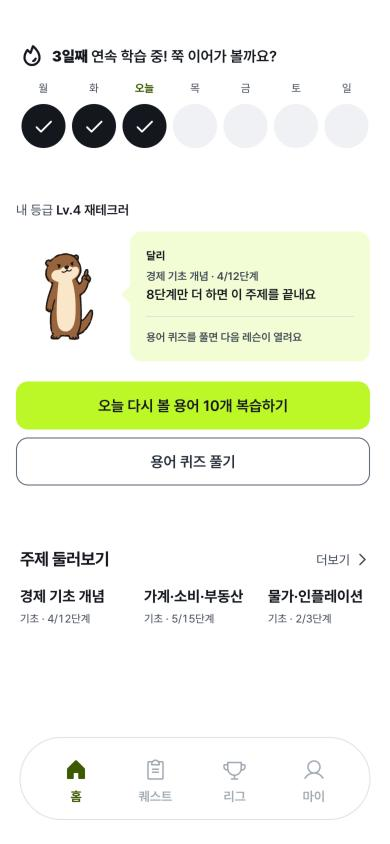
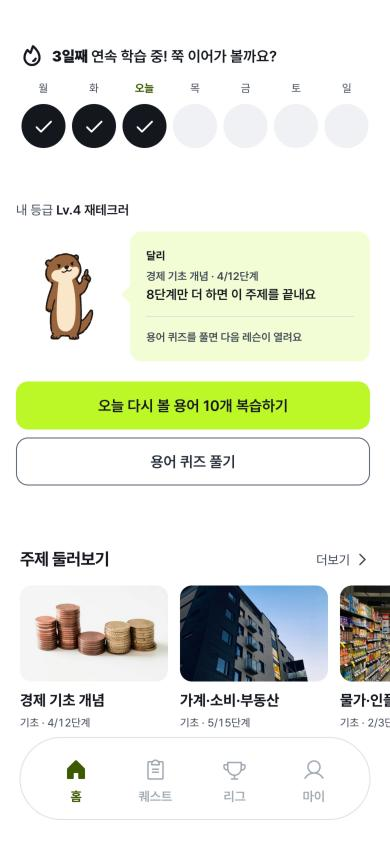
홈 주제 카드에 주제별 사진 17장(Unsplash 무료, 400x260) 추가, 출처 목록 public/topics/SOURCES.md

Changed region(s): [[0.0615, 0.6777, 1.0, 0.8626]]

diff --git a/src/pages/CourseScreen.tsx b/src/pages/CourseScreen.tsx
@@ -19,6 +19,14 @@ import { buildPath, type PathNode } from '../lib/path';
 
 const SEEN_KEY = 'path_seen_done';   // 코스 화면에서 마지막으로 본 완료 노드들(도장 연출용)
 const LEVEL_TABS = ['전체', '기초', '중급', '고급', '심화'];
+// 홈 주제 카드 사진(Unsplash 무료 라이선스, 400x260으로 줄여 public/topics에 둠). 출처는 public/topics/SOURCES.md
+const TOPIC_IMAGES: Record<string, string> = {
+  '가계·소비·부동산': 'household', '경기·성장·국민소득': 'growth', '경제 기초 개념': 'basics', '고용·노동·분배': 'labor',
+  '국제기구·세계경제': 'world', '국제수지·무역·통상': 'trade', '금리·통화정책·중앙은행': 'monetary', '금융안정·건전성 규제': 'stability',
+  '기업·산업·회계': 'industry', '물가·인플레이션': 'prices', '외환·환율': 'fx', '은행·금융제도': 'banking',
+  '재정·조세·사회보장': 'fiscal', '주식·채권시장': 'markets', '지급결제·화폐': 'payments', '파생상품·펀드·투자': 'investing',
+  '핀테크·디지털·신산업': 'fintech',
+};
 
 // 노드를 누르면 브랜드색 원이 화면 가득 퍼지고 로고를 보여준 뒤 다음 화면으로 넘어간다.
 // 오버레이를 body에 붙여 화면 전환 뒤에도 남게 한다. 동작 줄이기·WAAPI 미지원이면 바로 넘어간다.
@@ -393,6 +401,7 @@ const CourseScreen = () => {
           {topics.filter(topic => !topic.locked).slice(0, 6).map(topic => (
             <button key={`${topic.level}-${topic.category}`} type="button" role="listitem" className="course-home-rail-card"
               onClick={() => navigate(`/course?topic=${topic.index}`)} aria-label={`${topic.level} ${topic.category} 주제 열기, ${topicSteps(topic).done}/${topicSteps(topic).total}단계 완료`}>
+              {TOPIC_IMAGES[topic.category] && <img className="course-home-rail-image" src={`/topics/${TOPIC_IMAGES[topic.category]}.jpg`} alt="" aria-hidden="true" width={400} height={260} loading="lazy" decoding="async" />}
               <span className="course-home-rail-title">{topic.category}</span>
               <span className="course-home-rail-meta">{topic.level} · {topicSteps(topic).done}/{topicSteps(topic).total}단계</span>
             </button>

diff --git a/src/index.css b/src/index.css
@@ -1213,3 +1213,6 @@ button.review-aux-button:disabled { color: var(--color-ink-3); }
 .quest-screen, .league-screen, .my-page-screen { background: var(--color-card); }
 .my-page-sections .my-page-panel.my-page-menu { padding-inline: 0; }
 .my-page-menu button > div { padding-inline: var(--space-5); }
+/* 홈 주제 카드: 위에 주제 사진, 아래 제목·단계 */
+button.course-home-rail-card { width: 148px; }
+.course-home-rail-image { width: 100%; height: auto; aspect-ratio: 400 / 260; margin-bottom: var(--space-1); border-radius: var(--shape-inset); object-fit: cover; background: var(--color-surface); }

diff --git a/public/topics/SOURCES.md b/public/topics/SOURCES.md
@@ -1,0 +1,23 @@
+# 주제 사진 출처
+
+모두 Unsplash 무료 라이선스(https://unsplash.com/license) 사진을 400x260으로 줄인 것이다. 표기 의무는 없지만 원본을 남겨 둔다.
+
+| 파일 | 주제 | 원본 |
+| --- | --- | --- |
+| household.jpg | 가계·소비·부동산 | https://unsplash.com/photos/5q1KnUjtjaM |
+| growth.jpg | 경기·성장·국민소득 | https://unsplash.com/photos/Nyvq2juw4_o |
+| basics.jpg | 경제 기초 개념 | https://unsplash.com/photos/OApHds2yEGQ |
+| labor.jpg | 고용·노동·분배 | https://unsplash.com/photos/U2BI3GMnSSE |
+| world.jpg | 국제기구·세계경제 | https://unsplash.com/photos/l68Z6eF2peA |
+| trade.jpg | 국제수지·무역·통상 | https://unsplash.com/photos/NndKt2kF1L4 |
+| monetary.jpg | 금리·통화정책·중앙은행 | https://unsplash.com/photos/714uXLBwczM |
+| stability.jpg | 금융안정·건전성 규제 | https://unsplash.com/photos/3wPJxh-piRw |
+| industry.jpg | 기업·산업·회계 | https://unsplash.com/photos/9GwMIek9jnY |
+| prices.jpg | 물가·인플레이션 | https://unsplash.com/photos/ivfp_yxZuYQ |
+| fx.jpg | 외환·환율 | https://unsplash.com/photos/SAYzxuS1O3M |
+| banking.jpg | 은행·금융제도 | https://unsplash.com/photos/utWyPB8_FU8 |
+| fiscal.jpg | 재정·조세·사회보장 | https://unsplash.com/photos/741iShluYhk |
+| markets.jpg | 주식·채권시장 | https://unsplash.com/photos/fiXLQXAhCfk |
+| payments.jpg | 지급결제·화폐 | https://unsplash.com/photos/tgquMvhNLc4 |
+| investing.jpg | 파생상품·펀드·투자 | https://unsplash.com/photos/ZVprbBmT8QA |
+| fintech.jpg | 핀테크·디지털·신산업 | https://unsplash.com/photos/q8U1YgBaRQk |
